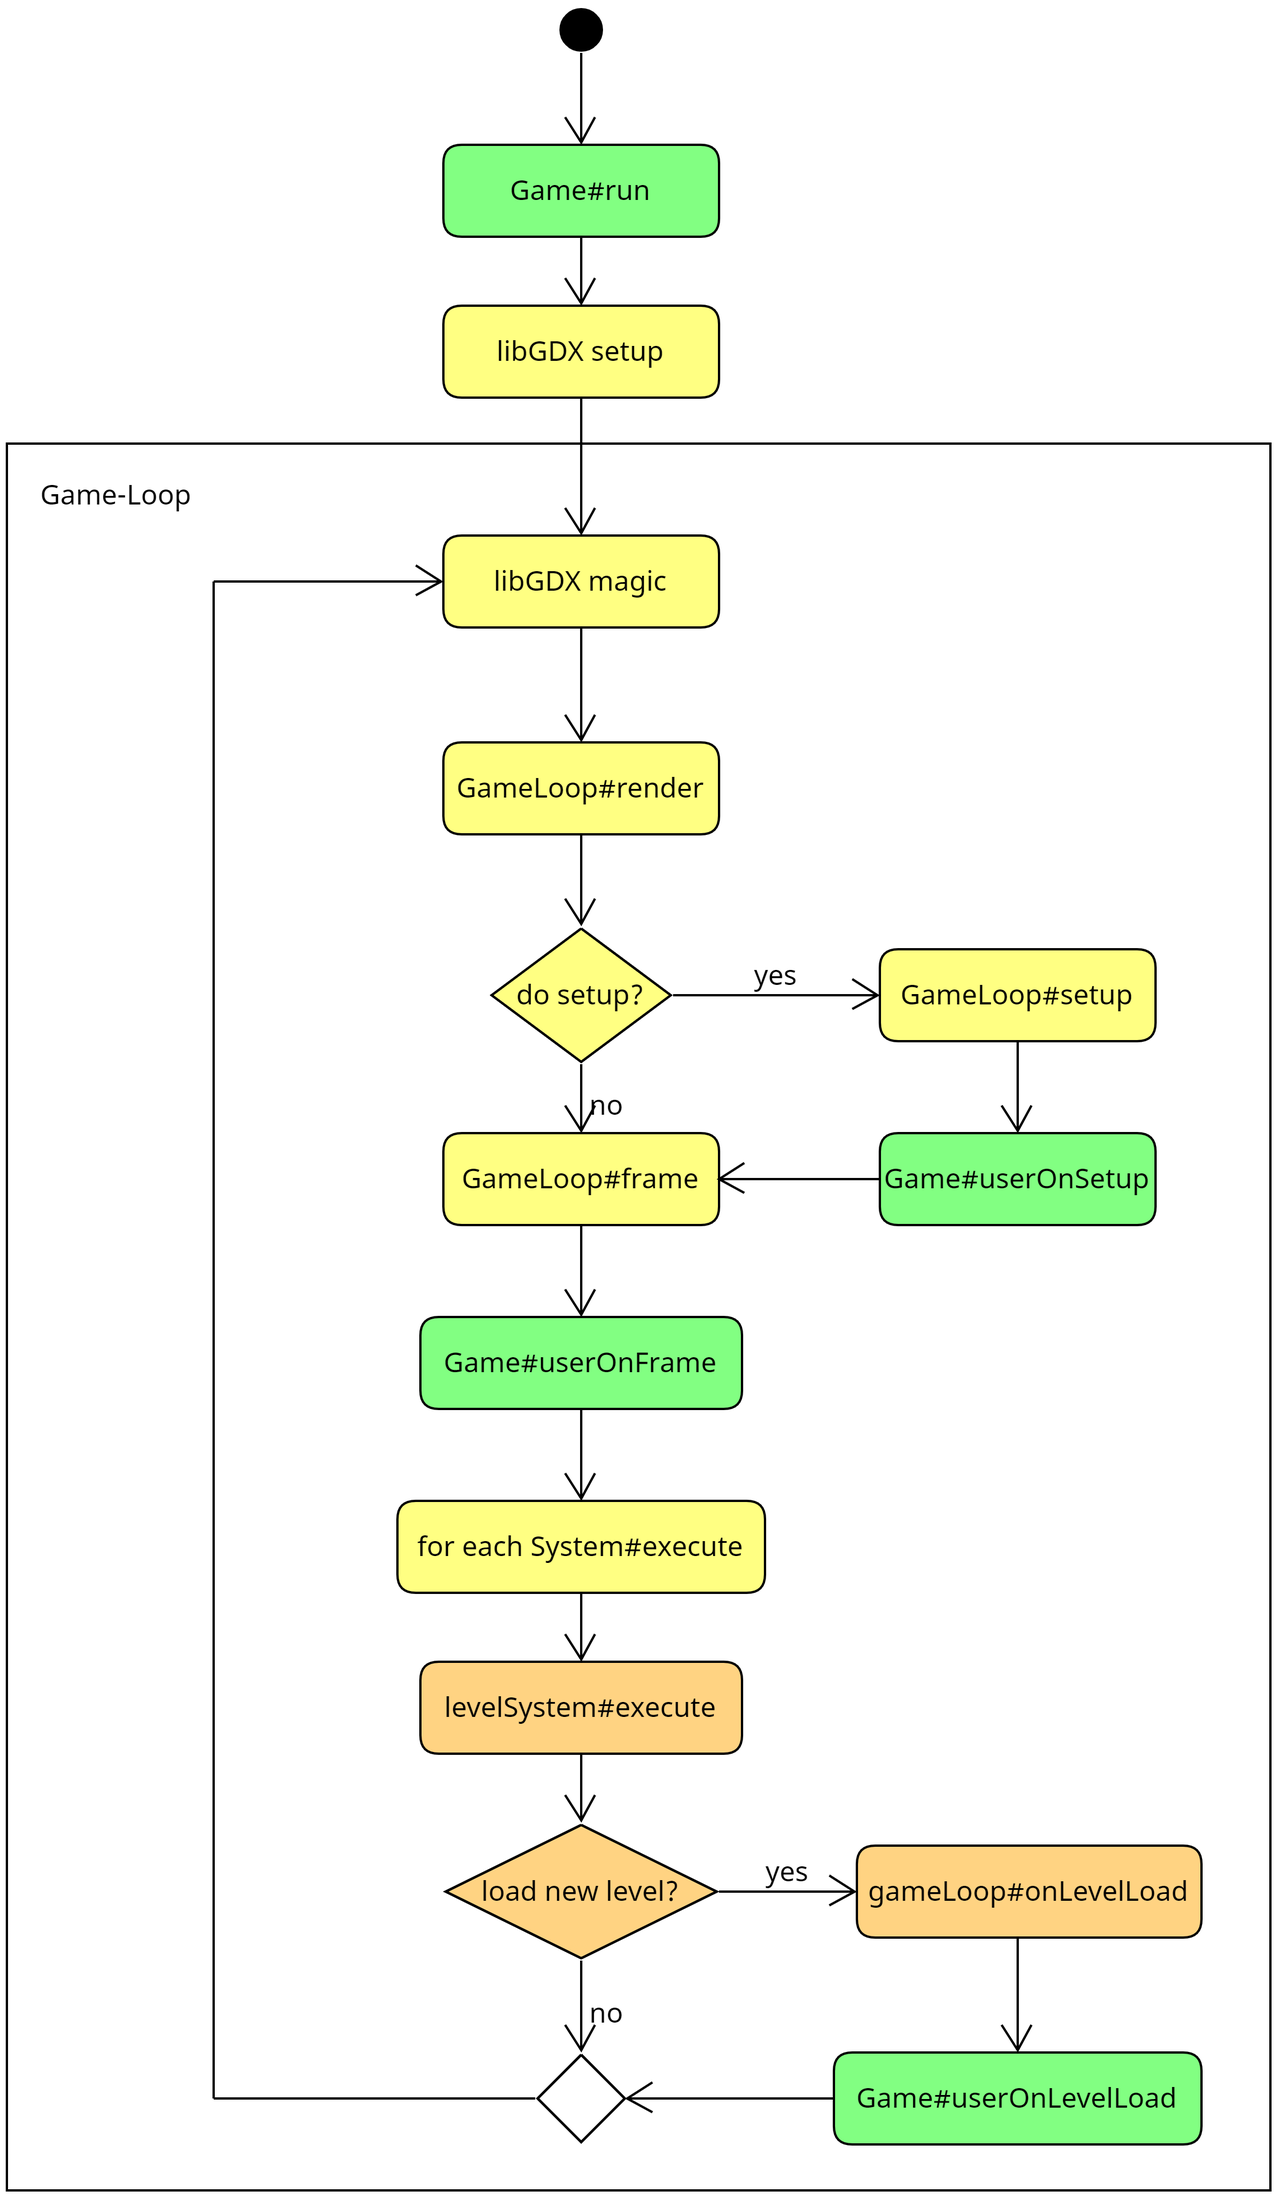
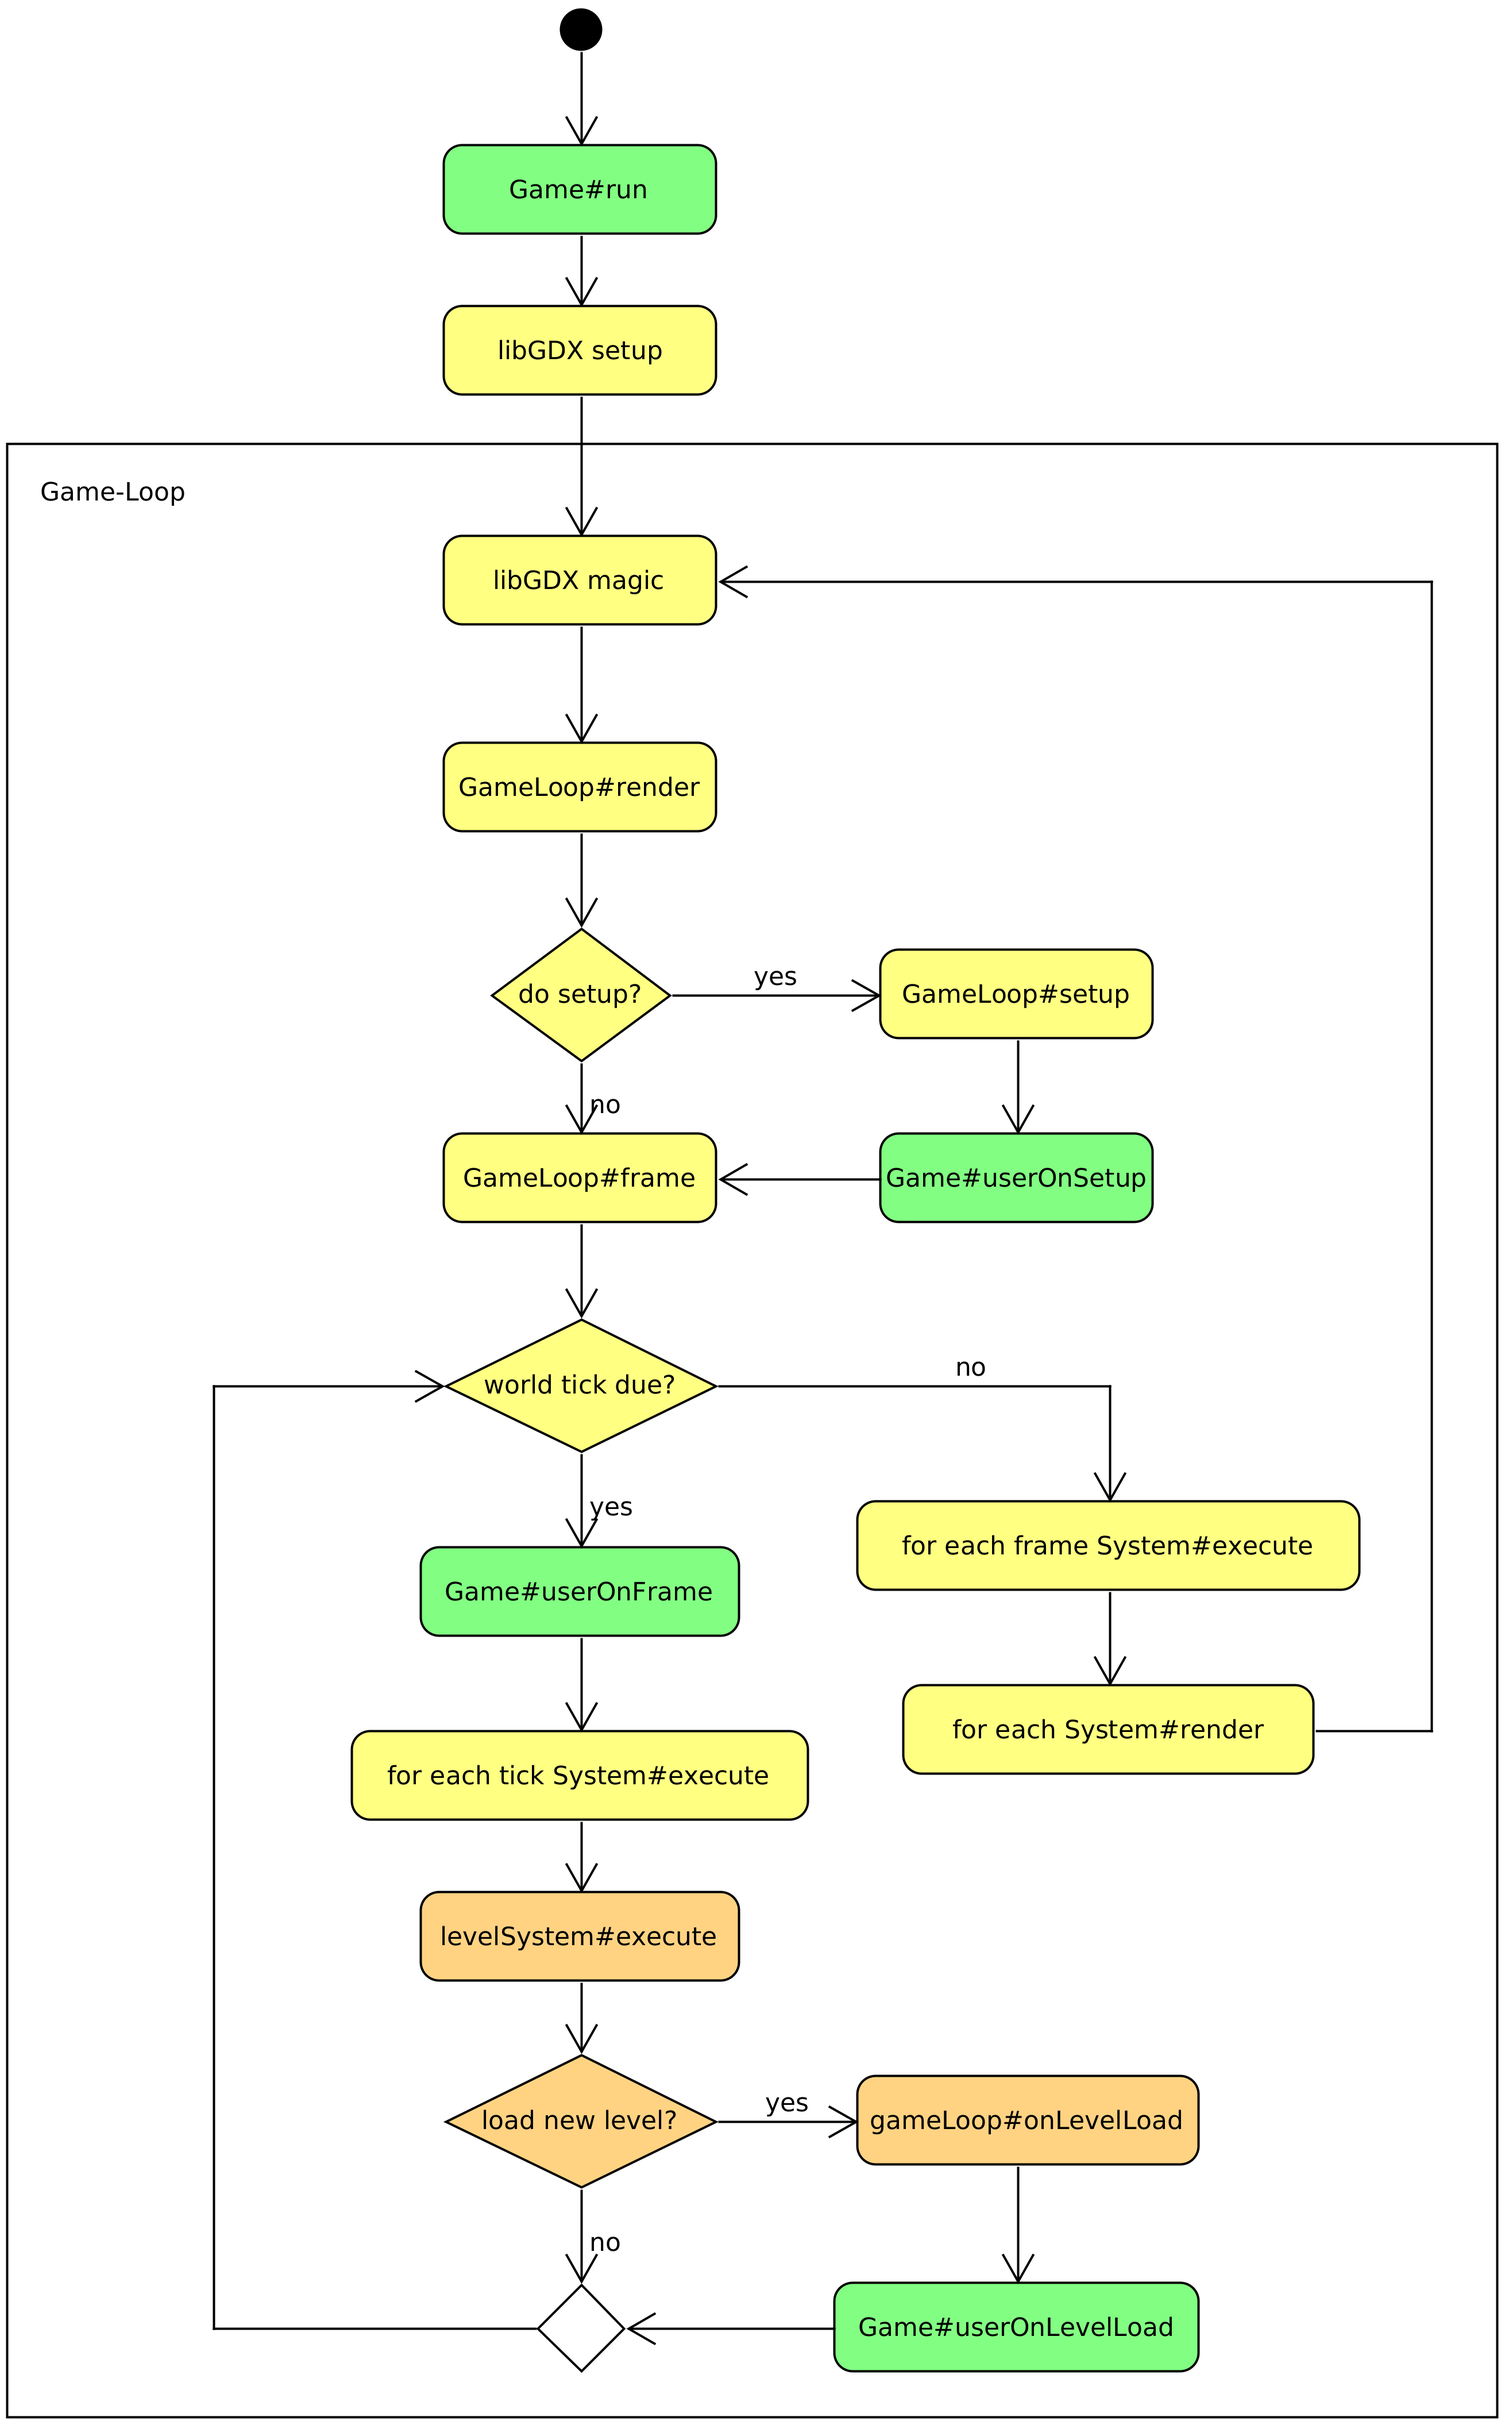
Show world ticks in the game loop diagram

diff --git a/game/doc/ecs_basics.md b/game/doc/ecs_basics.md
@@ -35,7 +35,7 @@ Die Methode `GameLoop#render` ist die Game-Loop. Das ECS wird durch die in Weiß
 
 Neu erzeugte Entitäten werden im Game registriert und im [`EntitySystemMapper`](./entity_system_mapper.md) hinterlegt.
 
-Die Systeme registrieren sich in `Game` und geben dabei an, auf welche Entitäten sie agieren wollen, heißt: Welche Components eine Entität implementieren muss, um vom System bearbeitet zu werden. Die Systeme iterieren über die in `Game` gespeicherten Entitäten und greifen über die Methode `Entity#fetch` auf die für die jeweilige Funktionalität benötigten Components zu. Die orangefarbenen `System`s und `Components` sind in dem UML-Diagramm Beispiele für die bereits bestehenden `System`s und `Components`. Systemlogiken werden einmal pro Welt-Tick ausgeführt, also 60-mal pro Sekunde unabhängig von der Framerate. Systeme der Client-Seite (`AuthoritativeSide.CLIENT`: Eingabe, Kamera, HUD, Sound) laufen stattdessen einmal pro Frame; ein System kann das über `System#runsPerFrame` selbst festlegen.
+Die Systeme registrieren sich in `Game` und geben dabei an, auf welche Entitäten sie agieren wollen, heißt: Welche Components eine Entität implementieren muss, um vom System bearbeitet zu werden. Die Systeme iterieren über die in `Game` gespeicherten Entitäten und greifen über die Methode `Entity#fetch` auf die für die jeweilige Funktionalität benötigten Components zu. Die orangefarbenen `System`s und `Components` sind in dem UML-Diagramm Beispiele für die bereits bestehenden `System`s und `Components`. Systemlogiken werden einmal pro Welt-Tick ausgeführt, also 60-mal pro Sekunde unabhängig von der Framerate. Systeme der Client-Seite (`AuthoritativeSide.CLIENT`: Eingabe, Kamera, Sound) laufen stattdessen einmal pro Frame; ein System kann das über `System#runsPerFrame` selbst festlegen.
 
 ## Prerun Konfiguration
 
